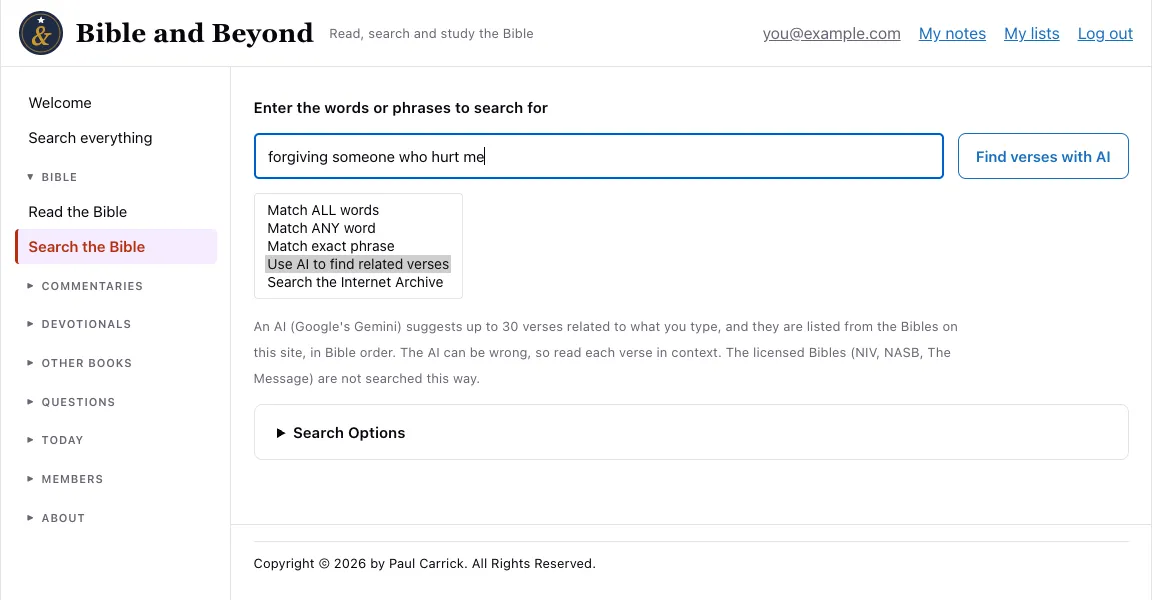
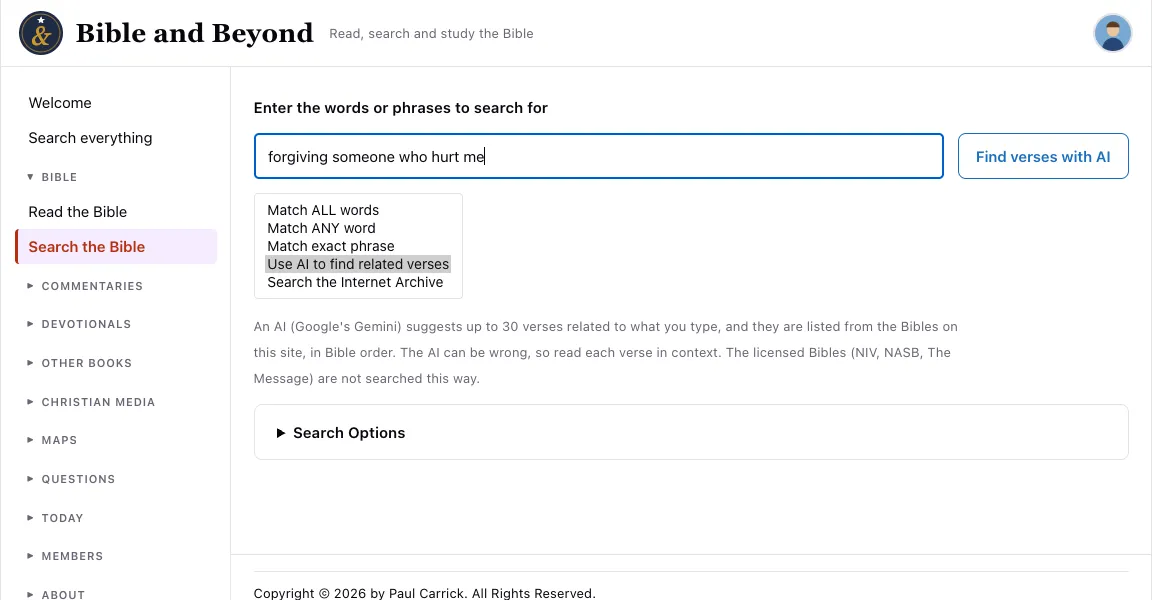
Tutorial and Help: the AI search and Ask your own question recorded afresh
Gemini was overloaded this morning, so the two AI sections of the tour and the two AI Help
pictures had kept their older versions. Recorded again now that it answers; the tour is 13 min 49 s.

diff --git a/CLAUDE.md b/CLAUDE.md
@@ -37,7 +37,7 @@ A web app that answers Bible questions using AI/ML.
 - **Welcome page** (`WelcomePage.tsx`): says what the site is and shows **three cards**, each with its buttons (built from what is loaded). **A card's buttons sit side by side, both at the left, at least 16px apart** (the owner's minimum; spreading them to the two edges was tried and not liked) (2026-11-14, the owner's request, to make the page shorter): no "the" in their words (Read Bible, Search Bibles, Read commentaries, Search commentaries, Read devotionals, Listen to music, Search music, Read conversations), 0.8em type, tight padding (0.35rem at the sides) and card side padding 0.6rem, so two fit a card at three cards a row; **when the cards have room** (two to a row or one wide card: a container query on `.welcome-cards`, width 22rem to 53rem, and on the Conversations card) the buttons are full size (0.95em, the usual padding), 1.25rem apart, and the cards keep their 1.1rem side padding (the Conversations card always) (the owner's request, the same day). Do not put the container on each card: it stops the cards lining up their rows through subgrid (checked at 1280 wide: "Read commentaries" with "Search commentaries" fills the card exactly; on a narrower card they wrap). Keep new card buttons short: the Bible (Read the Bible and Search the Bible), the commentaries (Read and Search, in the same order as the Bible card) and the devotionals (which mentions the daily email). It has no instructions, no contact section and no notes on the texts: those are on the Help page (the owner moved them there on 2026-11-07). Keep the cards true when features change; it is the page a new visitor reads. **What the cards list is built from what is loaded**, not written in: the Bibles (the published local Bibles, so one uploaded and published in Drupal appears by itself, and the licensed ones from the API.Bible list), the commentaries (their short names) and the devotionals (`describeDevotionals`: the daily ones and the chapter-by-chapter ones are named separately, with their counts, titles in italics). Only the descriptions of the features are fixed text.
 - **Search everything** (`WelcomeSearch.tsx`, under the welcome cards, and a page of its own: "Search everything" in the sidebar, under Welcome, address `/search-all`; it is one mounted search shown in both places, so the words and hits are the same, with an `h1` on its own page and an `h2` under the cards): one search box (match all words, any word or the exact phrase) over the Bible, the commentaries, the devotionals, the other books, the Christian music, **the maps** (added 2026-11-15, kind `map`, see "Maps") and **the FAQ** at once (the music added 2026-11-10, after the owner searched for a song there and did not find it; the FAQ added 2026-11-14 at the owner's request, after a search on the live site found nothing in the FAQ). **The FAQ group** (`search_faq` in `faq.py`, kind `faq`, "Show more questions", hit "Show the answer", which opens the FAQ page at that answer through `onOpenFaq` and `questionRequest` on `FaqPage`, a new id each time): each listed question with the site owner's note (tags stripped) and its stored answer (`faq_answers`, Markdown marks stripped) as one text, the same matching as the music (`commentary_english`), questions whose own words match first, an excerpt of the note or answer. A question nobody has opened has no stored answer, so only its words and note are found: `ml-service/.venv/bin/python ml-service/scripts/fill_faq_answers.py` fetches the missing or out-of-date answers through `get_answer` (one at a time, a pause between Gemini calls; run it after changing the FAQ prompt). The search by meaning leaves the FAQ out (`AI_KINDS`; there are no embeddings of it). Tests: `tests/test_faq_search.py`. `GET /search-everything?query=&match_mode=&kind=&page=&per_page=` (`ml-service/site_search.py`) runs the searches that already exist and returns `groups` in that order, 5 hits each by default, leaving out a kind with none: the Bible is **one** Bible (the BSB when published, else the first published local Bible), searched for **whole words** (so "again" does not list every "against"), with `terms` for bold; the commentaries and the books come with excerpts (`search_commentaries`, and `search_library` in `devotionals.py`, which now serves both the devotionals and the books). With `kind` it returns that one group's next page ("Show more verses / notes / readings / passages"). Each hit opens its reader there through a `Destination` ("Read in the Bible", which also takes Shift/Cmd-click for a new tab; "Read the note"; "Read this reading"; "Read this chapter"; "Play this song", which opens the music page at the song through `onOpenSong`). The search is mounted outside the welcome page and only shown on it, so its hits are still there after going Back. Common words cost most: "the of and" took about 0.8 s locally. Tests: `tests/test_site_search.py` (the searches faked).
 - **Footer** (`SiteFooter.tsx`): on every page, in the column to the right of the sidebar (below the page content, starting at the content's left edge; the sidebar and its divider run the full height beside it; on a phone it spans the width). It has **only the site's own line** (the **Copyright** set on the Drupal Site settings screen; "Copyright © 2026 by Paul Carrick. All Rights Reserved." until changed, and no footer at all if it is emptied). Everything about the texts moved to the **Help page** (`HelpPage.tsx`; the owner asked for this on 2026-11-07, choosing it over keeping a one-line API.Bible credit in the footer): how to use the site, accounts, notes and emails, "About the texts", the API.Bible line and the "Bible copyright notices" link, the copyright notice of each licensed Bible (NIV, NASB, The Message) fetched with `fetchCopyrights()` when the page opens (the server keeps them for a day, so about three API.Bible requests a day at most; if they cannot be fetched the page still names the Bibles and links to the notices), the credits that CC BY asks for (STEP Bible, OpenBible.info) and the statement that the other Bibles, the commentaries and the devotionals are public domain. The full notices and credits are on the copyright notices page (`CopyrightPage.tsx`, "Back to Help"). When a work with its own notice is added (a licensed Bible, a Creative Commons data set), add it to the Help page and that page. **A risk the owner accepted:** API.Bible's terms were noted as needing the API.Bible link and the notices link visible; they are now one click away (Help in the sidebar) rather than on every page. The notice of a licensed Bible is still shown with its text under search results (`SearchResults.tsx`: the copyright, the API.Bible link and "Bible copyright notices"). If API.Bible ever objects, put one line back in the footer.
-- **The user guide** (the Help page, `HelpPage.tsx`, rewritten 2026-11-08 at the owner's request): a list of contents (buttons that scroll to each section), then one section per feature with screenshots (`public/help/*.webp`, **44 files**, loaded lazily; **all retaken on 2026-11-24** for the account icon at the top right, with four new ones (`account-menu`, `public-lists`, `send-to-member`, `message-request`) and new words on the posting rules, external sites, sharing playlists and the menu's groups, by `pictures.mjs` in **`~/CllaudeWorkspace`** (the owner moved these work folders out of `~/Documents` on 2026-11-24, as it syncs to Google Drive), "Bible and Beyond - Help pictures 2026-11-24" (its README-less steps are those of 2026-11-17; its `sample_data.py` now also makes Sam's drawn head shot, a list Ruth shares, Sam's shared playlist and a post Daniel sent to Sam; the two maps are now an 1871 Library of Congress map and a Biblica city plan copied from the live server into its `maps/`, since the old scans' folder is gone; `ai-search-results` and `ai-search-options` were again not retaken, Gemini answering only 503 and 504 that day); before that, **retaken on 2026-11-17** for the sidebar (Christian media, Maps, Today), with three new ones (`list-save`, `my-lists`, `verse-of-the-day`) and a new paragraph *Messages from a group* (the group stop links, as a member sees them), by `pictures.mjs` in the owner's Documents, "Bible and Beyond - Help pictures 2026-11-17" (its README says how; the two AI pictures were kept from that morning, as the local AI search did not answer; picture sizes on the page set from the files); before that, **all retaken on 2026-11-15** for the maps, texts, the verse a day, My account and the Prayer Wall options, with nine new ones (`maps`, `map-open`, `map-search`, `map-marks`, `map-mark-edit`, `sign-up`, `my-account`, `prayer-request-form`, `prayer-list-email`) and a new section *A verse a day and text messages*, by `pictures.mjs` in the owner's Documents, "Bible and Beyond - Help pictures 2026-11-15" (its README says how: each picture in its own browser context so a login does not carry over, the ML service run with `OUTGOING_EMAIL=off OUTGOING_SMS=off`, two Library of Congress maps from `celebrate-recovery-local/documents/holy-land-maps` uploaded and removed afterwards, a temporary third song `be-thou-my-vision` for `playlist-edit`); before that, **all retaken on 2026-11-14** after the collapsible sidebar, with two new ones, `playlist-edit` and `prayer-wall`, by `pictures.mjs` in the owner's Documents, "Bible and Beyond - Feature Tour 2026-11-14" (its README says how): headless Chrome at 1152 wide, the window as tall as the picture, `cwebp -q 80`, made-up members and notes from its `sample_data.py add` (removed afterwards with `remove`), logged in as you@example.org or ruth@example.org; `playlist-edit` needed a third published song for its Add songs list, a temporary row "be-thou-my-vision", removed; before that, **all 26 retaken on 2026-11-12** after the button restyle, the links-to-buttons change and the Tutorial video entry: headless Chrome with puppeteer-core at 1152 wide, `cwebp -q 80`, logged in as the local `you@example.com` through a temporary session row (deleted afterwards, so its password was never touched), the two local songs published for the music pictures and hidden again, the two notes pictures from a temporary `you@example.org` with tidy sample notes (the local account's notes are test scribbles), Conversations from two temporary members; a picture of a reader is the visible window only, a hidden page's elements must not be picked (every page stays mounted), and a select list is shown open by giving it a `size`; `ai-search-results` and `ai-search-options` added 2026-11-11 under the Bible search, taken from the local site as a temporary `you@example.org` account with puppeteer-core at 1152 wide, copies as PNG in the owner's Documents; click opens full size; the three added on 2026-11-10, `music-open`, `music-search` and `apostles-creed` (the Creed with the tooltip of a statement link), were taken from the local site in headless Chrome at 1152 pixels wide and saved with `cwebp -q 80`; the music section and its pictures show only when a song is published), then About the texts, Licensed Bibles and Credits as before. It says plainly that no account is needed, that an account adds notes, daily emails and (on request) your own FAQ questions, and that free-form FAQ questions are asked for through the Contact form after setting up an account. **The screenshots must never show a real person's address**: the owner's were covered with `you@example.com` and the browser bar cropped off; new ones are best taken from the local site logged in as a local account `you@example.com` (it exists only in the local database). Keep the guide true when a feature changes, and retake its screenshot. A full-page screenshot tool stitches the continuous readers wrongly (a day or chapter appears repeated): take those of the visible window only.
+- **The user guide** (the Help page, `HelpPage.tsx`, rewritten 2026-11-08 at the owner's request): a list of contents (buttons that scroll to each section), then one section per feature with screenshots (`public/help/*.webp`, **44 files**, loaded lazily; **all retaken on 2026-11-24** for the account icon at the top right, with four new ones (`account-menu`, `public-lists`, `send-to-member`, `message-request`) and new words on the posting rules, external sites, sharing playlists and the menu's groups, by `pictures.mjs` in **`~/CllaudeWorkspace`** (the owner moved these work folders out of `~/Documents` on 2026-11-24, as it syncs to Google Drive), "Bible and Beyond - Help pictures 2026-11-24" (its README-less steps are those of 2026-11-17; its `sample_data.py` now also makes Sam's drawn head shot, a list Ruth shares, Sam's shared playlist and a post Daniel sent to Sam; the two maps are now an 1871 Library of Congress map and a Biblica city plan copied from the live server into its `maps/`, since the old scans' folder is gone; `ai-search-results` and `ai-search-options` retaken later the same day, once Gemini answered again); before that, **retaken on 2026-11-17** for the sidebar (Christian media, Maps, Today), with three new ones (`list-save`, `my-lists`, `verse-of-the-day`) and a new paragraph *Messages from a group* (the group stop links, as a member sees them), by `pictures.mjs` in the owner's Documents, "Bible and Beyond - Help pictures 2026-11-17" (its README says how; the two AI pictures were kept from that morning, as the local AI search did not answer; picture sizes on the page set from the files); before that, **all retaken on 2026-11-15** for the maps, texts, the verse a day, My account and the Prayer Wall options, with nine new ones (`maps`, `map-open`, `map-search`, `map-marks`, `map-mark-edit`, `sign-up`, `my-account`, `prayer-request-form`, `prayer-list-email`) and a new section *A verse a day and text messages*, by `pictures.mjs` in the owner's Documents, "Bible and Beyond - Help pictures 2026-11-15" (its README says how: each picture in its own browser context so a login does not carry over, the ML service run with `OUTGOING_EMAIL=off OUTGOING_SMS=off`, two Library of Congress maps from `celebrate-recovery-local/documents/holy-land-maps` uploaded and removed afterwards, a temporary third song `be-thou-my-vision` for `playlist-edit`); before that, **all retaken on 2026-11-14** after the collapsible sidebar, with two new ones, `playlist-edit` and `prayer-wall`, by `pictures.mjs` in the owner's Documents, "Bible and Beyond - Feature Tour 2026-11-14" (its README says how): headless Chrome at 1152 wide, the window as tall as the picture, `cwebp -q 80`, made-up members and notes from its `sample_data.py add` (removed afterwards with `remove`), logged in as you@example.org or ruth@example.org; `playlist-edit` needed a third published song for its Add songs list, a temporary row "be-thou-my-vision", removed; before that, **all 26 retaken on 2026-11-12** after the button restyle, the links-to-buttons change and the Tutorial video entry: headless Chrome with puppeteer-core at 1152 wide, `cwebp -q 80`, logged in as the local `you@example.com` through a temporary session row (deleted afterwards, so its password was never touched), the two local songs published for the music pictures and hidden again, the two notes pictures from a temporary `you@example.org` with tidy sample notes (the local account's notes are test scribbles), Conversations from two temporary members; a picture of a reader is the visible window only, a hidden page's elements must not be picked (every page stays mounted), and a select list is shown open by giving it a `size`; `ai-search-results` and `ai-search-options` added 2026-11-11 under the Bible search, taken from the local site as a temporary `you@example.org` account with puppeteer-core at 1152 wide, copies as PNG in the owner's Documents; click opens full size; the three added on 2026-11-10, `music-open`, `music-search` and `apostles-creed` (the Creed with the tooltip of a statement link), were taken from the local site in headless Chrome at 1152 pixels wide and saved with `cwebp -q 80`; the music section and its pictures show only when a song is published), then About the texts, Licensed Bibles and Credits as before. It says plainly that no account is needed, that an account adds notes, daily emails and (on request) your own FAQ questions, and that free-form FAQ questions are asked for through the Contact form after setting up an account. **The screenshots must never show a real person's address**: the owner's were covered with `you@example.com` and the browser bar cropped off; new ones are best taken from the local site logged in as a local account `you@example.com` (it exists only in the local database). Keep the guide true when a feature changes, and retake its screenshot. A full-page screenshot tool stitches the continuous readers wrongly (a day or chapter appears repeated): take those of the visible window only.
 - **Links and buttons** (the owner's rule, 2026-11-12): where actions sit together and one of them is a button, they are **all buttons**. Every button is an outlined box with rounded corners (8 px) and no fill, filling lightly on hover (the owner's choice, 2026-11-12; a lighter blue in dark mode): the main one `primary-button` (blue outline, bold), the others `secondary-button` (grey outline, same size; Cancel, Clear search, Stop, Clear the ticks, Ask another question, "← All commentaries/devotionals/books" and "↑ Back to top" in the reader toolbars). The links at the foot of a form are buttons too (the account forms: Forgot your password?, No account yet? Set one up, Already have an account? Log in, Back to log in; `.account-other-actions`). **Lists of actions stay links** (`link-button`), because they take less room: Edit / Delete under notes, the verse links under search results, "Read this chapter" and the like in results, the delete confirmations; so do links inside a sentence. The exception the owner chose (2026-11-12): **Edit, Delete and Reply under Conversations posts and replies**, and their "Delete this ...?" confirmations, are small outlined buttons (`secondary-button small-button`, `danger-button` for "Yes, delete it"; `.conversation-actions`). Follow this in new pages. The Internet Archive's "Borrow for an hour" button is outlined the same way; only the floating "↑ Back to top" button stays filled, so it shows over the text it floats on.
 - **Tooltips** (`SiteTooltip.tsx`, mounted once at the end of `App.tsx`; style `.site-tooltip` in `App.css`; added 2026-11-09 because the owner found the browser's tooltips too small): a larger tooltip (0.95 rem, dark on light pages, light on dark ones, up to 24 rem wide, kept inside the window, below the element or above it when there is no room) for **every element with a `title`**, so components keep using plain `title` attributes. It shows after 0.4 s of the mouse resting on the element, or at once on keyboard focus (`:focus-visible`), and hides when the pointer leaves, on a click, scroll, resize or Escape; not on touch. On first hover it moves the `title` to `data-tooltip` (so the browser's small one does not also show) and copies it to `aria-description` unless the element has its own description or the same `aria-label`. The Bible reader's verse numbers say: "More for this verse: right-click it, or click its number. Show in Context, Full Chapter, Other Translations, Related Verses, Original Words, Commentaries and Notes." (keep it in step with `verseMenuItems`).
 - The footer is not counted in the "fit screen" sizing of search results and windows (it is below the fold and the reader scrolls to it), so results fill the window as before. The "Back to top" controls (Home key, a button that follows the reader, a link in the choosers and one under the last chapter) go to the top of the page; they were "Back to tabs" until the tabs were replaced.
@@ -620,7 +620,7 @@ A web app that answers Bible questions using AI/ML.
 - The old Network Solutions hosting service on this domain is no longer used and expires 2026-12-06; cancel it if it is not needed.
 
 ## Tutorial video
-- Page `/tutorial` (`TutorialPage.tsx`, "Tutorial video" in the sidebar under Help; the Help page links to it too; added 2026-11-11, remade 2026-11-12 at the owner's request because the first felt rushed, **remade 2026-11-24** (**14 min 7 s**, 30 sections, every one re-recorded except 20-ai-search and 22-ask-question, which are the 2026-11-15 clips again: Gemini answered only 503 and 504 that day; 20 still shows the Match list inside Search Options): **it names no site** (cards with the open-book icon, narration saying "the site"), since it is shown on freestudy.bible and cr.orcas.church as well; new: the account icon's menu and adding your picture (15b), sharing a list and Public lists (18c-sharing, among the on-request features), the posting rule and sending a post to one member (23); the map is now the 1871 one; the files keep their names and the page asks for them with `?v=2026-11-24`; sources in `~/CllaudeWorkspace/Bible and Beyond - Feature Tour 2026-11-24` (README), run with the Help pictures' `sample_data.py add`. Before that, **remade 2026-11-17** ("a lot has changed"): **15 min 49 s**, 31 sections, every section re-recorded except the three AI ones (20, 21, 22 are the 2026-11-15 clips: the local Gemini key was out of quota, 429), with Download Card and the Match list under the search box (04), two new sections, *Today* (13b-today: Verse and Devotional of the day) and *My lists* (18b-my-lists), sign-up with an email address or a cell phone number and Send via SMS (15), Close your account (15b) and the Prayer Wall's *Who sees this request* list (23b); sources in the owner's Documents, "Bible and Beyond - Feature Tour 2026-11-17" (README). Before that, **remade again 2026-11-15** for the new sidebar (Maps group, Privacy) and the new features: **14 min 34 s**, every section re-recorded, with new sections for the maps (11b-maps), sign-up with texts and a verse a day, My account (15b-my-account), Email me replies, the Prayer Wall options, Answered and the weekly prayer list email, and members' map pins and routes with sharing and My notes (23c-map-marks); sources in the owner's Documents, "Bible and Beyond - Feature Tour 2026-11-15" (Grace's phone is +1 (555) 201-4567: a 555 number with a 1 after the area code is refused as not a US number; the ML service ran with OUTGOING_EMAIL=off OUTGOING_SMS=off). Before that, **remade 2026-11-14** for the collapsible sidebar, the welcome cards, playlist Edit and drag, the FAQ in Search everything and a new Prayer Wall section: **11 min 6 s**, every section re-recorded, the "ask your own question" section included this time; sources in the owner's Documents, "Bible and Beyond - Feature Tour 2026-11-14"). Before that, a 9 min 38 s narrated tour (Ava (Premium) voice from macOS `say` at rate 165, captions in `public/tutorial/bible-and-beyond-feature-tour.en.vtt`, one per sentence, poster `poster.webp` from the opening card). It covers the welcome page, the Bible reader (verse menu, a word's Hebrew or Greek), Bible search with Search Options and filters, Search everything, the commentaries and their search, devotionals, other books and their search, the Apostles' Creed, music, the Internet Archive search, the FAQ (with an owner's note), then a free account (setting one up, notes, daily emails, playlists), then what the administrator turns on (AI search by verses and by meaning, your own question, Conversations), and Help.
+- Page `/tutorial` (`TutorialPage.tsx`, "Tutorial video" in the sidebar under Help; the Help page links to it too; added 2026-11-11, remade 2026-11-12 at the owner's request because the first felt rushed, **remade 2026-11-24** (**13 min 49 s**, 30 sections, every one re-recorded; 20-ai-search and 22-ask-question were recorded later the same day, once Gemini answered again after a morning of 503 and 504): **it names no site** (cards with the open-book icon, narration saying "the site"), since it is shown on freestudy.bible and cr.orcas.church as well; new: the account icon's menu and adding your picture (15b), sharing a list and Public lists (18c-sharing, among the on-request features), the posting rule and sending a post to one member (23); the map is now the 1871 one; the files keep their names and the page asks for them with `?v=2026-11-24`; sources in `~/CllaudeWorkspace/Bible and Beyond - Feature Tour 2026-11-24` (README), run with the Help pictures' `sample_data.py add`. Before that, **remade 2026-11-17** ("a lot has changed"): **15 min 49 s**, 31 sections, every section re-recorded except the three AI ones (20, 21, 22 are the 2026-11-15 clips: the local Gemini key was out of quota, 429), with Download Card and the Match list under the search box (04), two new sections, *Today* (13b-today: Verse and Devotional of the day) and *My lists* (18b-my-lists), sign-up with an email address or a cell phone number and Send via SMS (15), Close your account (15b) and the Prayer Wall's *Who sees this request* list (23b); sources in the owner's Documents, "Bible and Beyond - Feature Tour 2026-11-17" (README). Before that, **remade again 2026-11-15** for the new sidebar (Maps group, Privacy) and the new features: **14 min 34 s**, every section re-recorded, with new sections for the maps (11b-maps), sign-up with texts and a verse a day, My account (15b-my-account), Email me replies, the Prayer Wall options, Answered and the weekly prayer list email, and members' map pins and routes with sharing and My notes (23c-map-marks); sources in the owner's Documents, "Bible and Beyond - Feature Tour 2026-11-15" (Grace's phone is +1 (555) 201-4567: a 555 number with a 1 after the area code is refused as not a US number; the ML service ran with OUTGOING_EMAIL=off OUTGOING_SMS=off). Before that, **remade 2026-11-14** for the collapsible sidebar, the welcome cards, playlist Edit and drag, the FAQ in Search everything and a new Prayer Wall section: **11 min 6 s**, every section re-recorded, the "ask your own question" section included this time; sources in the owner's Documents, "Bible and Beyond - Feature Tour 2026-11-14"). Before that, a 9 min 38 s narrated tour (Ava (Premium) voice from macOS `say` at rate 165, captions in `public/tutorial/bible-and-beyond-feature-tour.en.vtt`, one per sentence, poster `poster.webp` from the opening card). It covers the welcome page, the Bible reader (verse menu, a word's Hebrew or Greek), Bible search with Search Options and filters, Search everything, the commentaries and their search, devotionals, other books and their search, the Apostles' Creed, music, the Internet Archive search, the FAQ (with an owner's note), then a free account (setting one up, notes, daily emails, playlists), then what the administrator turns on (AI search by verses and by meaning, your own question, Conversations), and Help.
 - **Pacing (the owner asked for it unhurried):** each sentence starts where the recording reaches the action it describes, never before the previous sentence has ended plus 0.8 s; each clip holds 2 s after its last sentence; a visible pointer glides to each control before using it; typing at reading speed; smooth scrolling; waits for Gemini and the Internet Archive are cut out. The "ask your own question" section is from an earlier recording, paced the old way, because Gemini was overloaded during the remake.
 - **The video file is not in git** (about 50 MB; `frontend/public/tutorial/*.mp4` is ignored). On 2026-11-24 it was copied to both servers (the main server and cr.orcas.church, `~/src/bible-and-beyond.com/frontend/public/tutorial/` there, and into `dist/tutorial/`), with the admin tour (`drupal/web/modules/custom/bible_admin/help/video/admin-tour.mp4`, also ignored). Copy it to the server by hand, then build: `scp frontend/public/tutorial/bible-and-beyond-feature-tour.mp4 bible-and-beyond:bible-and-beyond.com/frontend/public/tutorial/` and `deploy/deploy.sh` (or `--all` if nothing in `frontend/` changed, so the build copies it into `dist`). nginx serves it as a plain file (range requests work, so it can be skipped through).
 - **The sources** are in the owner's Documents, "Bible and Beyond - Feature Tour 2026-11-12" (its README says how to remake it): the narration script, per-sentence voice files and `timings.json`, the recorder (`tour.mjs`, `recorder.mjs`: Chrome's screencast frames at 1920x1080 from a 1440x810 window at 4/3 scale), the clips with their cue times, the title cards, and `assemble.py`. The first tour's sources stay in "Bible and Beyond - Feature Tour clips". Pitfalls met while recording: the readers' choosers follow the chapter at the top of the screen and load the chapter before when near the top (so start a reader section already at its chapter, never scroll to the sticky choosers, and scroll in relative steps); text inside a closed `<details>` still has a position in Chrome (use `checkVisibility()`); every page stays mounted, so pick visible elements only.
